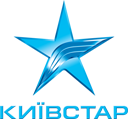
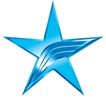
Исправлено отображение названия тарифа. Исправлена ошибка с входом вызывавшем блокировку аккаунта. Переформатированы отступы. Изменена иконка (убрано мелкое название оператора, оставлен только логотип).

diff --git a/ab-cell-kyivstar/main.js b/ab-cell-kyivstar/main.js
@@ -7,115 +7,122 @@
 */
 
 function main(){
-    var prefs = AnyBalance.getPreferences();
-    var baseurl = "https://my.kyivstar.ua/";
-    AnyBalance.trace("Trying to enter selfcare at address: " + baseurl);
-    var html = AnyBalance.requestPost(baseurl + "tbmb/login/perform.do", {
-        isSubmitted: "true",
-        user: prefs.login,
-        password: prefs.password
-    });
-    
-    var matches = html.match(/<td class="redError">([\s\S]*?)<\/td>/i);
-    if(matches){
-        throw new AnyBalance.Error(matches[1]);
+  var prefs = AnyBalance.getPreferences();
+  var baseurl = "https://my.kyivstar.ua/";
+  AnyBalance.trace('Connecting to ' + baseurl);
+
+  var html = AnyBalance.requestGet(baseurl + 'tbmb/login/show.do');
+  var token = /name="org.apache.struts.taglib.html.TOKEN" value="([\s\S]*?)">/.exec(html);
+
+  AnyBalance.trace('Token = ' + token[1]);
+
+  var html = AnyBalance.requestPost(baseurl + "tbmb/login/perform.do", {
+    isSubmitted: "true",
+    "org.apache.struts.taglib.html.TOKEN": token[1],
+    user: prefs.login,
+    password: prefs.password
+  });
+  
+  var matches = html.match(/<td class="redError">([\s\S]*?)<\/td>/i);
+  if(matches){
+      throw new AnyBalance.Error(matches[1]);
+  }
+  
+  AnyBalance.trace('Successfully connected');
+  
+  var result = {success: true};
+  var str_tmp;
+  
+  //Тарифный план
+  if (matches=/Тарифний план:[\s\S]*?<td\s+[^>]*>(.*?)\s*<\/td>/.exec(html)){
+    str_tmp=/Номер діє до:[\s\S]*?<td>(.*?)</.exec(html)
+    result.__tariff=matches[1]+' (до '+str_tmp[1]+')';
+  }
+  
+  // Баланс
+  if(AnyBalance.isAvailable('balance')){
+    if (matches=/Залишок на рахунку:[\s\S]*?<b>(.*?)</.exec(html)){
+        result.balance=parseFloat(matches[1]);
     }
-    
-    AnyBalance.trace('Successfully connected');
-    
-    var result = {success: true};
-    var str_tmp;
-    
-    //Тарифный план
-    if (matches=/Тарифний план:[\s\S]*?<a\s+[^>]*>(.*?)\s*<\/a>/.exec(html)){
-      str_tmp=/Номер діє до:[\s\S]*?<td>(.*?)</.exec(html)
-      result.__tariff=matches[1]+' (до '+str_tmp[1]+')';
+  }
+  
+  //Бонусные минуты (1)
+  if(AnyBalance.isAvailable('bonus_mins_1')){
+    if (matches=/Кількість хвилин для дзвінків[\s\S]*?<b>(.*?)</.exec(html)){
+        result.bonus_mins_1=parseInt(matches[1]);
     }
-    
-    // Баланс
-    if(AnyBalance.isAvailable('balance')){
-      if (matches=/Залишок на рахунку:[\s\S]*?<b>(.*?)</.exec(html)){
-          result.balance=parseFloat(matches[1]);
-      }
+  }
+  
+  //Бонусные минуты (2)
+  if(AnyBalance.isAvailable('bonus_mins_2')){
+    if (matches=/Кількість хвилин для дзвінків[\s\S]*?Кількість хвилин для дзвінків[\s\S]*?<b>(.*?)</.exec(html)){
+        result.bonus_mins_2=parseInt(matches[1]);
     }
-    
-    //Бонусные минуты (1)
-    if(AnyBalance.isAvailable('bonus_mins_1')){
-      if (matches=/Кількість хвилин для дзвінків[\s\S]*?<b>(.*?)</.exec(html)){
-          result.bonus_mins_1=parseInt(matches[1]);
-      }
+  }
+  
+  //Бонусные MMS
+  if(AnyBalance.isAvailable('bonus_mms')){
+    if (matches=/Бонусні MMS:[\s\S]*?<b>(.*?)</.exec(html)){
+        result.bonus_mms=parseInt(matches[1]);
     }
-    
-    //Бонусные минуты (2)
-    if(AnyBalance.isAvailable('bonus_mins_2')){
-      if (matches=/Кількість хвилин для дзвінків[\s\S]*?Кількість хвилин для дзвінків[\s\S]*?<b>(.*?)</.exec(html)){
-          result.bonus_mins_2=parseInt(matches[1]);
-      }
+  }
+  
+  //Бонусные SMS
+  if(AnyBalance.isAvailable('bonus_sms')){
+    if (matches=/Бонусні SMS:[\s\S]*?<b>(.*?)</.exec(html)){
+        result.bonus_sms=parseInt(matches[1]);
     }
-    
-    //Бонусные MMS
-    if(AnyBalance.isAvailable('bonus_mms')){
-      if (matches=/Бонусні MMS:[\s\S]*?<b>(.*?)</.exec(html)){
-          result.bonus_mms=parseInt(matches[1]);
-      }
+  }
+  
+  //SMS
+  if(AnyBalance.isAvailable('sms')){
+    if (matches=/Бонусні SMS:[\s\S]*?SMS:[\s\S]*?<b>(.*?)</.exec(html)){
+        result.sms=parseInt(matches[1]);
     }
-    
-    //Бонусные SMS
-    if(AnyBalance.isAvailable('bonus_sms')){
-      if (matches=/Бонусні SMS:[\s\S]*?<b>(.*?)</.exec(html)){
-          result.bonus_sms=parseInt(matches[1]);
-      }
+  }
+  
+  //Бонусные средства (1)
+  if(AnyBalance.isAvailable('bonus_money_1')){
+    if (matches=/Бонусні кошти:[\s\S]*?<b>(.*?)</.exec(html)){
+        result.bonus_money_1=parseFloat(matches[1]);
     }
-    
-    //SMS
-    if(AnyBalance.isAvailable('sms')){
-      if (matches=/Бонусні SMS:[\s\S]*?SMS:[\s\S]*?<b>(.*?)</.exec(html)){
-          result.sms=parseInt(matches[1]);
-      }
+  }
+  
+  //Бонусные средства (2)
+  if(AnyBalance.isAvailable('bonus_money_2')){
+    if (matches=/Бонуси за умовами тарифного плану "Єдина ціна":[\s\S]*?<b>(.*?)</.exec(html)){
+        result.bonus_money_2=parseFloat(matches[1]);
     }
-    
-    //Бонусные средства (1)
-    if(AnyBalance.isAvailable('bonus_money_1')){
-      if (matches=/Бонусні кошти:[\s\S]*?<b>(.*?)</.exec(html)){
-          result.bonus_money_1=parseFloat(matches[1]);
-      }
+  }
+  
+  //Остаток бонусов
+  if(AnyBalance.isAvailable('bonus_left')){
+    if (matches=/Залишок бонусів:[\s\S]*?<b>(.*?)</.exec(html)){
+        result.bonus_left=parseFloat(matches[1]);
     }
-    
-    //Бонусные средства (2)
-    if(AnyBalance.isAvailable('bonus_money_2')){
-      if (matches=/Бонуси за умовами тарифного плану "Єдина ціна":[\s\S]*?<b>(.*?)</.exec(html)){
-          result.bonus_money_2=parseFloat(matches[1]);
-      }
+  }
+  
+  //Интернет (1)
+  if(AnyBalance.isAvailable('internet_1')){
+    if (matches=/Залишок бонусного об\'єму даних:[\s\S]*?<b>(.*?)</.exec(html)){
+        result.internet_1=Math.round(parseInt(matches[1])/1024/1024*100)/100;
     }
-    
-    //Остаток бонусов
-    if(AnyBalance.isAvailable('bonus_left')){
-      if (matches=/Залишок бонусів:[\s\S]*?<b>(.*?)</.exec(html)){
-          result.bonus_left=parseFloat(matches[1]);
-      }
+  }
+  
+  //Интернет (2)
+  if(AnyBalance.isAvailable('internet_2')){
+    if (matches=/Залишок бонусного об\'єму даних:[\s\S]*?Залишок бонусного об\'єму даних:[\s\S]*?<b>(.*?)</.exec(html)){
+        result.internet_2=Math.round(parseInt(matches[1])/1024/1024*100)/100;
     }
-    
-    //Интернет (1)
-    if(AnyBalance.isAvailable('internet_1')){
-      if (matches=/Залишок бонусного об\'єму даних:[\s\S]*?<b>(.*?)</.exec(html)){
-          result.internet_1=Math.round(parseInt(matches[1])/1024/1024*100)/100;
-      }
+  }
+  
+  //Домашний Интернет
+  if(AnyBalance.isAvailable('home_internet')){
+    if (matches=/Від послуги "Домашній Інтернет":[\s\S]*?<b>(.*?)</.exec(html)){
+        result.home_internet=parseFloat(matches[1]);
     }
-    
-    //Интернет (2)
-    if(AnyBalance.isAvailable('internet_2')){
-      if (matches=/Залишок бонусного об\'єму даних:[\s\S]*?Залишок бонусного об\'єму даних:[\s\S]*?<b>(.*?)</.exec(html)){
-          result.internet_2=Math.round(parseInt(matches[1])/1024/1024*100)/100;
-      }
-    }
-    
-    //Домашний Интернет
-    if(AnyBalance.isAvailable('home_internet')){
-      if (matches=/Від послуги "Домашній Інтернет":[\s\S]*?<b>(.*?)</.exec(html)){
-          result.home_internet=parseFloat(matches[1]);
-      }
-    }
-    
-    AnyBalance.setResult(result);
+  }
+  
+  AnyBalance.setResult(result);
 }
 
